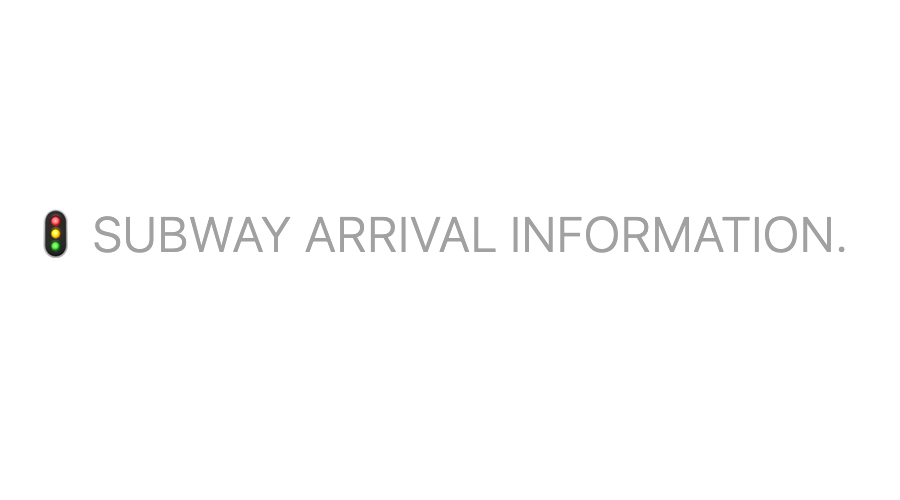
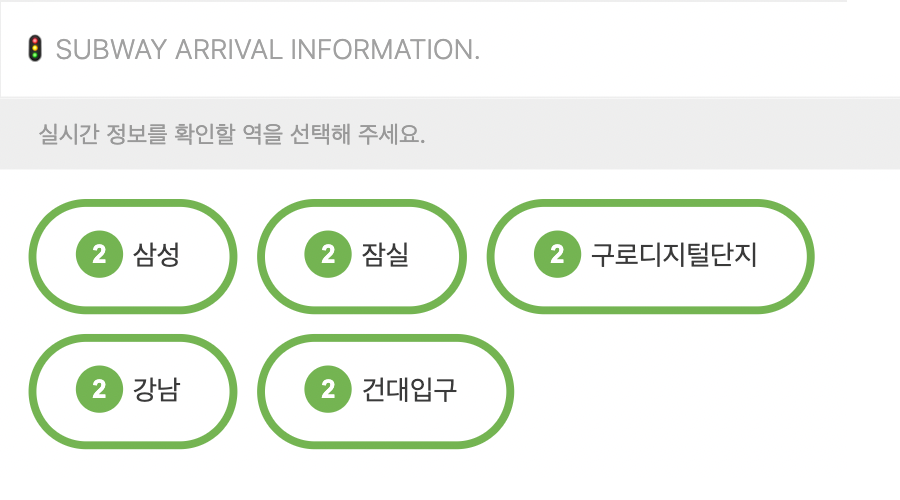
feature : project title. meta image.

diff --git a/pages/_app.tsx b/pages/_app.tsx
@@ -25,7 +25,7 @@ const MyApp = ({ Component, pageProps }: AppProps) => {
             />
             <meta property="og:image" content="/img_meta.png" />
             <link rel="icon" href="/favicon.ico" />
-            <title>Project Name</title>
+            <title>🚦 SUBWAY ARRIVAL INFORMATION.</title>
           </Head>
           <GlobalStyle />
           <ThemeProvider theme={theme}>
